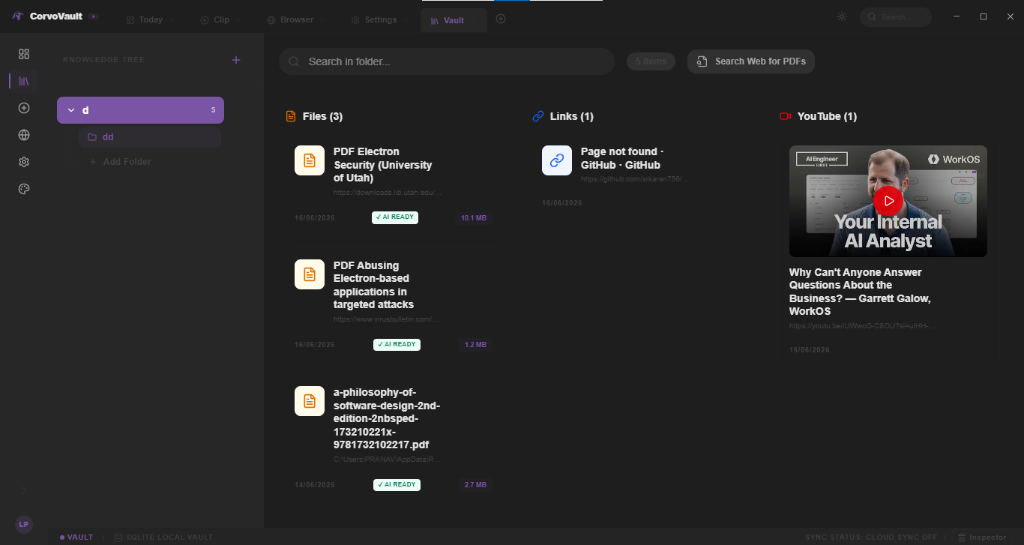
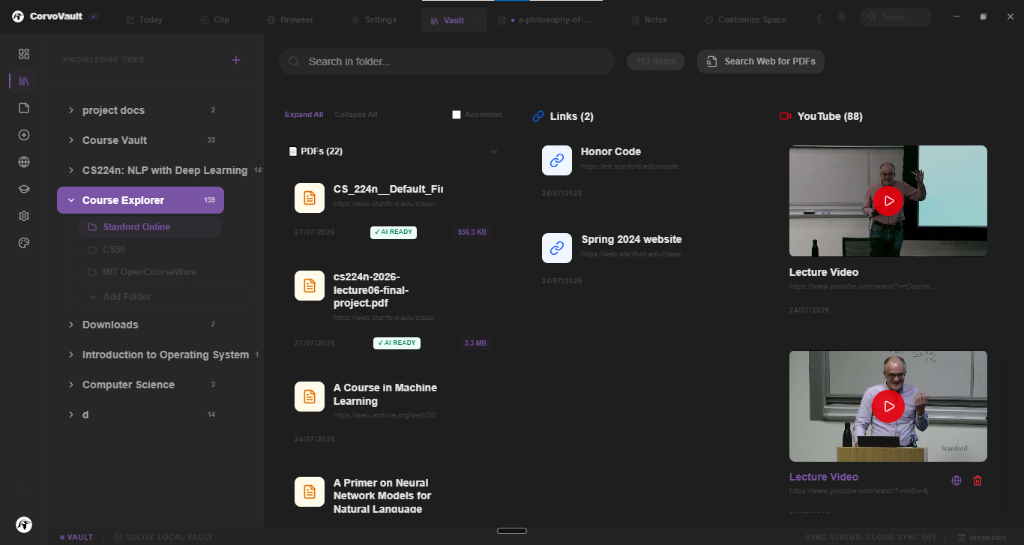
docs: add interface showcase screenshots to README

diff --git a/README.md b/README.md
@@ -35,9 +35,23 @@ Learning is not linear—it spans across PDFs, research papers, online courses, 
 
 ---
 
-> <sub>*Updated screenshots and UI walkthroughs for the latest release will be uploaded here soon.*</sub>
+## 📸 Interface Showcase
 
----
+<div align="center">
+
+| **Knowledge Vault & Resource Hierarchy** | **Standalone Notes Studio (Markdown & KaTeX)** |
+|:---:|:---:|
+| <img src="docs/screenshots/vault.png" alt="Knowledge Vault" width="100%" /> | <img src="docs/screenshots/notes.png" alt="Notes Studio" width="100%" /> |
+| *Unified Topic → Folder → Material organization for PDFs, web links, and YouTube lectures.* | *Split-view live Markdown editor with KaTeX math equations and callout blocks.* |
+
+<br />
+
+| **Online Course Explorer** | **Profiles & Customization Settings** |
+|:---:|:---:|
+| <img src="docs/screenshots/course_explorer.png" alt="Course Explorer" width="100%" /> | <img src="docs/screenshots/settings.png" alt="Settings & Profiles" width="100%" /> |
+| *Browse open course platforms, extract syllabi, and attach study materials.* | *Configure profile preferences, local backup targets, and cloud sync providers.* |
+
+</div>
 
 ## ✨ Key Features
 
